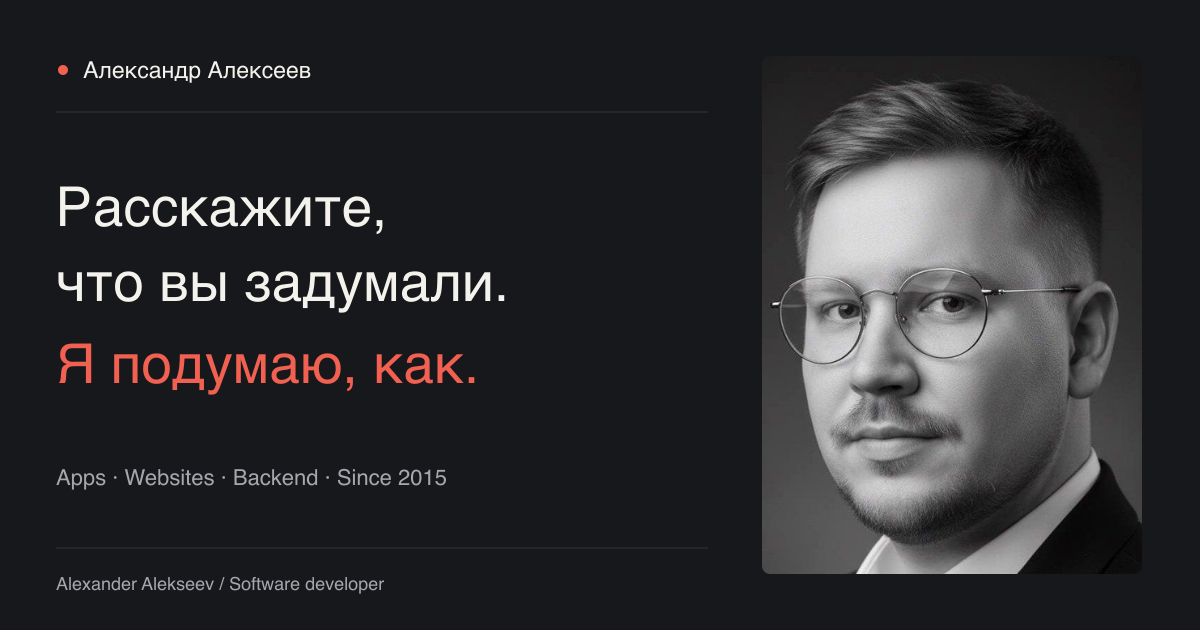
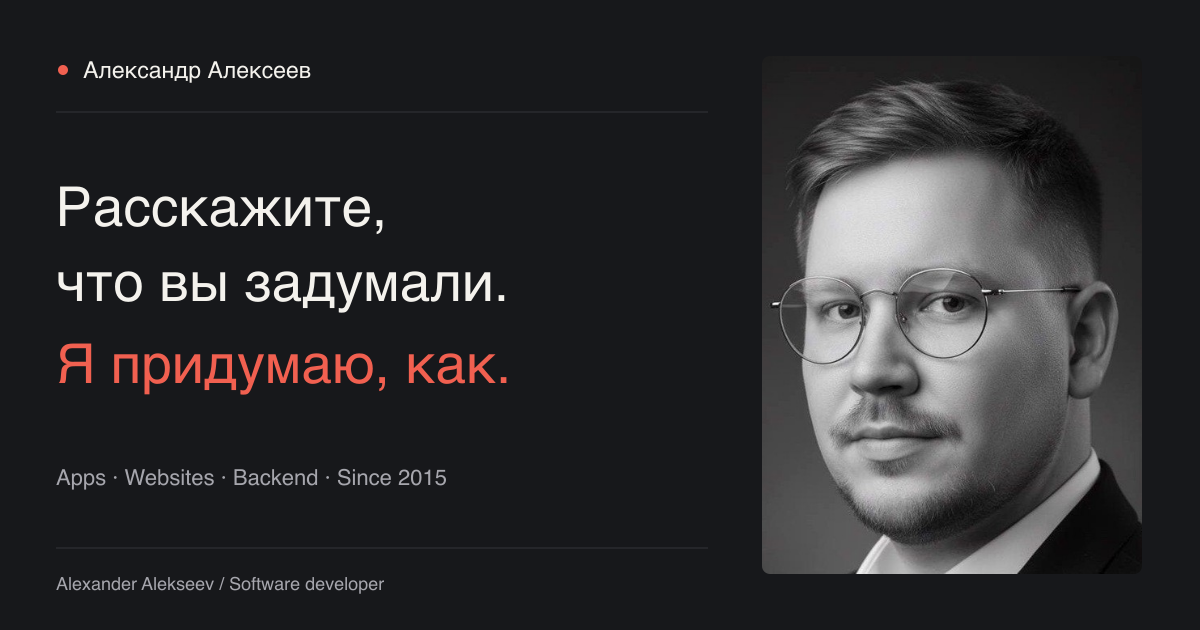
Add owner-confirmed project contributions in Russian and English

Changed region(s): [[0.1233, 0.5429, 0.4317, 0.6333]]

diff --git a/src/data/projects.ts b/src/data/projects.ts
@@ -13,6 +13,7 @@ export type Project = {
   kind: string;
   subtitle: string;
   description: string;
+  contribution: string;
   stack: string[];
   color: string;
   mark: string;
@@ -29,21 +30,23 @@ export const projects: Project[] = [
     slug: 'amelia', name: 'Amelia', category: 'Приложения', kind: 'Мобильный цветочный магазин',
     subtitle: 'Магазин в телефоне. Управление — в браузере.',
     description: 'Цветочный магазин в телефоне: букеты, категории и корзина. За приложением — API и инструменты управления магазином.',
-    stack: ['Flutter', 'TypeScript', 'Express', 'Prisma', 'Vue'],
+    contribution: 'Восстановил приложение, заброшенное на несколько лет, и запустил его на iOS и Android. Затем развивал функциональность и занимался публикацией в App Store и Google Play.',
+    stack: ['Flutter', 'Dart', 'iOS', 'Android'],
     color: 'rose', mark: 'a.', nodes: ['Приложение', 'API магазина', 'Админка'],
     context: 'Помочь покупателю выбрать букет в приложении, а сотрудникам — работать с каталогом и заказами через административную панель. Мобильную и внутреннюю части связывает серверный API.',
     screenshots: [{ src: 'projects/amelia/01-catalog.webp', width: 562, height: 1280, alt: { ru: 'Amelia: каталог букетов с ценами и категориями', en: 'Amelia: bouquet catalogue with prices and categories' }, caption: { ru: 'Мобильное приложение — каталог букетов', en: 'Mobile app — bouquet catalogue' } }],
     system: [
-      { title: 'Мобильный клиент', text: 'Flutter-приложение — пользовательская часть магазина для мобильных устройств.' },
-      { title: 'Серверная часть', text: 'API на Express и TypeScript. Prisma связывает серверную модель с базой данных.' },
-      { title: 'Управление магазином', text: 'Отдельное веб-приложение на Vue для административных сценариев.' },
+      { title: 'Восстановление проекта', text: 'Разобрал зависимости после незавершённого рефакторинга, заменил несовместимые библиотеки и исправил типизацию.' },
+      { title: 'iOS и Android', text: 'Восстановил сборку и запуск Flutter-приложения на обеих платформах.' },
+      { title: 'Развитие и публикации', text: 'Добавлял новые функции и сопровождал публикации приложения в App Store и Google Play.' },
     ],
   },
   {
     slug: 'vratarnitsa', name: 'Вратарница', category: 'Приложения', kind: 'Сайт и мобильный сервис прихода',
     subtitle: 'Сайт, приложение и управление в одной системе.',
     description: 'Цифровой сервис прихода: информация о храме, молитвослов, подача записок и пожертвования. Сайт и мобильный интерфейс связаны с общей системой.',
-    stack: ['Nuxt', 'Vue', 'Node.js', 'TypeScript', 'MySQL'],
+    contribution: 'Самостоятельно разработал сайт, административную панель, серверную часть и мобильное приложение. Опубликовал приложение в App Store и Google Play, подключил онлайн-оплату и подписки на пожертвования.',
+    stack: ['Nuxt', 'Vue', 'Flutter', 'Capacitor', 'Node.js', 'TypeScript', 'MySQL'],
     color: 'sand', mark: 'В', nodes: ['Сайт и клиент', 'Серверный API', 'Управление'],
     context: 'Сделать информацию и сервисы прихода доступными с компьютера и телефона. Посетитель может познакомиться с храмом и перейти к нужному действию; сервер и административная панель связывают интерфейсы с внутренней работой продукта.',
     screenshots: [
@@ -51,44 +54,47 @@ export const projects: Project[] = [
       { src: 'projects/vratarnitsa/02-mobile.webp', width: 358, height: 775, alt: { ru: 'Вратарница: мобильная версия сайта с навигацией', en: 'Vratarnitsa: mobile layout and navigation' }, caption: { ru: 'Мобильная версия — те же сервисы на узком экране', en: 'Mobile layout — the same services on a smaller screen' } },
     ],
     system: [
-      { title: 'Веб-интерфейс', text: 'Nuxt и Vue используются для пользовательской части продукта.' },
-      { title: 'Мобильное направление', text: 'В проекте есть мобильные клиенты на Flutter и Capacitor — разные этапы развития продукта.' },
-      { title: 'Общий сервер', text: 'Node.js, Express и TypeScript; MySQL и Sequelize для работы с данными. Административная панель работает с API.' },
+      { title: 'Полный цикл разработки', text: 'Без участия других разработчиков создал сайт, административную панель, серверный API и мобильное приложение.' },
+      { title: 'Мобильный релиз', text: 'Довёл приложение до публикации в App Store и Google Play. В проекте использовались Flutter и Capacitor на разных этапах развития.' },
+      { title: 'Платежи и подписки', text: 'Интегрировал онлайн-оплату и систему подписок на пожертвования.' },
     ],
   },
   {
     slug: 'save', name: 'Сэйв', category: 'Приложения', kind: 'Сервис охранного предприятия',
     subtitle: 'Связь клиента с сервисом — в приложении.',
     description: 'Приложение охранного сервиса: доступ по PIN-коду, объекты, события и связь с компанией. Для сотрудников — административная панель.',
-    stack: ['Flutter', 'PHP', 'Node.js', 'Socket.IO', 'Nuxt'],
+    contribution: 'Спроектировал дизайн и разработал мобильное приложение на Flutter. Спроектировал серверную чат-систему со службой поддержки и интегрировал её в приложение.',
+    stack: ['Flutter', 'Dart', 'Node.js', 'TypeScript', 'Socket.IO'],
     color: 'blue', mark: 'S', nodes: ['Клиент', 'API и чат', 'Оператор'],
     screenshots: [{ src: 'projects/save/01-sign-in.webp', width: 562, height: 1280, alt: { ru: 'Сэйв.info: экран входа по PIN-коду', en: 'Save.info: PIN sign-in screen' }, caption: { ru: 'Мобильное приложение — вход по PIN-коду', en: 'Mobile app — PIN sign-in' } }],
     context: 'Приложение связывает клиента с охранным сервисом. За мобильным интерфейсом стоят серверные сценарии, работа с объектами и инструменты для сотрудников.',
     system: [
-      { title: 'Приложение клиента', text: 'Flutter-клиент с уведомлениями и интеграцией с серверной частью.' },
-      { title: 'Серверное развитие', text: 'В системе сочетаются PHP API и отдельный сервис чата на Node.js и TypeScript.' },
-      { title: 'Инструменты сотрудников', text: 'Веб-панель на Nuxt и обмен сообщениями через Socket.IO.' },
+      { title: 'Дизайн приложения', text: 'Самостоятельно спроектировал визуальную часть мобильного приложения.' },
+      { title: 'Разработка на Flutter', text: 'Реализовал мобильный клиент на Flutter и связал его с серверной частью.' },
+      { title: 'Чат поддержки', text: 'Спроектировал серверную чат-систему на Node.js и TypeScript с обменом сообщениями через Socket.IO и внедрил её в приложение.' },
     ],
   },
   {
     slug: 'godendo', name: 'ГоденДо', category: 'Приложения', kind: 'Каталог скидок поблизости',
     subtitle: 'Предложения магазинов — в одном приложении.',
     description: 'Мобильный каталог товаров со скидками: категории, поиск, цены и расстояние до магазина. Рядом — избранное и список покупок.',
-    stack: ['Flutter', 'Dart', 'Nuxt', 'Vue'],
+    contribution: 'Спроектировал дизайн, разработал мобильное приложение на Flutter и интегрировал серверную часть.',
+    stack: ['Flutter', 'Dart'],
     color: 'mint', mark: 'Г', nodes: ['Предложения', 'Магазины', 'Покупатель'],
     context: 'Помочь человеку увидеть предложения магазинов поблизости и выбрать, куда пойти за покупками. В карточках видны товар, скидка, цена, магазин и расстояние; категории и поиск помогают ориентироваться в каталоге.',
     screenshots: [{ src: 'projects/godendo/01-discounts.webp', width: 540, height: 1204, alt: { ru: 'ГоденДо: товары со скидками, цены и расстояния до магазинов', en: 'GodenDo: discounted products, prices, and distances to stores' }, caption: { ru: 'Мобильное приложение — предложения магазинов', en: 'Mobile app — offers from nearby stores' } }],
     system: [
-      { title: 'Каталог на телефоне', text: 'Flutter-приложение с товарами, магазинами и категориями. На первом экране — предложения со скидками.' },
-      { title: 'Выбор и планирование', text: 'Карточки показывают цену и магазин. В исходниках предусмотрены избранное, список покупок и работа с геолокацией.' },
-      { title: 'Административная часть', text: 'Веб-панель на Nuxt и Vue для работы с каталогом, товарами и магазинами.' },
+      { title: 'Дизайн', text: 'Спроектировал интерфейс мобильного каталога товаров и предложений магазинов.' },
+      { title: 'Мобильное приложение', text: 'Реализовал дизайн и пользовательские сценарии на Flutter.' },
+      { title: 'Интеграция', text: 'Подключил мобильное приложение к серверной части проекта.' },
     ],
   },
   {
     slug: 'ice-and-flame', name: 'Лёд и пламя', category: 'Веб-сайты', kind: 'Сайт настольной игры',
     subtitle: 'Показать игру ещё до первой партии.',
-    description: 'Презентационный сайт «Градус судьбы»: механика игры, фотографии, форматы участия и заявка.',
-    stack: ['Astro', 'TypeScript', 'Tailwind CSS', 'PHP'],
+    description: 'Лендинг обучающей настольной игры «Градус судьбы»: механика, фотографии и форматы участия.',
+    contribution: 'Полностью разработал лендинг для презентации обучающей настольной игры: визуальную часть, вёрстку и адаптацию для компьютеров и телефонов.',
+    stack: ['Astro', 'TypeScript', 'Tailwind CSS'],
     color: 'ember', mark: '↟', nodes: ['Знакомство', 'Формат игры', 'Заявка'],
     screenshots: [{
       src: 'projects/ice-and-flame/01-home.webp', width: 1440, height: 1050,
@@ -99,17 +105,18 @@ export const projects: Project[] = [
       alt: { ru: 'Лёд и пламя: мобильный первый экран сайта игры', en: 'Ice and Flame: mobile home page' },
       caption: { ru: 'Главная страница — мобильная версия', en: 'Home page — mobile layout' },
     }],
-    context: 'Сайт знакомит с командной игрой «Градус судьбы: Лёд и Пламя». Посетитель видит механику, роли и живые фотографии, выбирает подходящий формат и может оставить заявку.',
+    context: 'Познакомить посетителя с обучающей настольной игрой, её механикой и форматами участия через небольшой презентационный сайт.',
     system: [
       { title: 'Визуальный рассказ', text: 'Лёд и огонь задают композицию. Механика, роли и галерея постепенно раскрывают продукт.' },
       { title: 'Статическая сборка', text: 'Astro формирует готовые страницы. Типизированные данные и компоненты помогают поддерживать содержимое сайта.' },
-      { title: 'Обратная связь', text: 'Форма заявки связана с PHP-обработчиком. Мобильная композиция адаптирована под узкий экран.' },
+      { title: 'Адаптивная вёрстка', text: 'Разработал отображение для компьютеров и телефонов. Лендинг работает без серверной части.' },
     ],
   },
   {
     slug: 'alean', name: 'Alean', category: 'Веб-сайты', kind: 'Курортная недвижимость',
     subtitle: 'Большой курортный проект — в понятной истории.',
     description: 'Сайт Alean Resort Montvert: комплекс, инфраструктура, галерея и обратная связь.',
+    contribution: 'Разработал визуальную и серверную части сайта, формы обратной связи и анимации.',
     stack: ['Nuxt', 'Vue', 'Pinia', 'PHP'],
     color: 'mint', mark: 'A', nodes: ['Комплекс', 'Инфраструктура', 'Обратная связь'],
     screenshots: [
@@ -127,6 +134,7 @@ export const projects: Project[] = [
     slug: 'united-mission', name: 'UnitedMission', category: 'Веб-сайты', kind: 'Консультационные услуги',
     subtitle: 'От знакомства с подходом — к обращению.',
     description: 'Англоязычный сайт с направлениями работы, страницами услуг и формами обращений.',
+    contribution: 'Разработал визуальную и серверную части сайта, а также административную панель для работы с обращениями.',
     stack: ['Nuxt', 'TypeScript', 'Node.js', 'MySQL'],
     color: 'violet', mark: 'UM', nodes: ['Услуги', 'Формы', 'Обработка обращений'],
     screenshots: [
@@ -142,66 +150,72 @@ export const projects: Project[] = [
   },
 ];
 
-type ProjectText = Pick<Project, 'name' | 'kind' | 'description' | 'context' | 'nodes' | 'system'>;
+type ProjectText = Pick<Project, 'name' | 'kind' | 'description' | 'contribution' | 'context' | 'nodes' | 'system'>;
 export const projectEnglish: Record<string, ProjectText> = {
   godendo: {
     name: 'GodenDo', kind: 'Local deals catalogue',
     description: 'A mobile catalogue of discounted products, with search, categories, prices, and store distances, plus favourites and a shopping list.',
+    contribution: 'Designed the interface, built the Flutter mobile app, and integrated it with the project’s backend.',
     context: 'Help people discover offers from nearby stores and decide where to shop. Product cards show the discount, price, store, and distance, while search and categories make the catalogue easier to explore.',
     nodes: ['Offers', 'Stores', 'Shopper'],
     system: [
-      { title: 'Mobile catalogue', text: 'A Flutter app with products, stores, and categories. The home screen highlights discounted offers.' },
-      { title: 'Choosing and planning', text: 'Cards show prices and stores. The codebase also includes favourites, a shopping list, and geolocation support.' },
-      { title: 'Administration', text: 'A Nuxt and Vue dashboard for working with the catalogue, products, and stores.' },
+      { title: 'Interface design', text: 'Designed the mobile catalogue interface for products and store offers.' },
+      { title: 'Mobile development', text: 'Implemented the design and user workflows in Flutter.' },
+      { title: 'Integration', text: 'Connected the mobile app to the project’s backend.' },
     ],
   },
   amelia: {
     name: 'Amelia', kind: 'Mobile flower shop',
     description: 'A flower shop on your phone: bouquets, categories, and a basket, backed by an API and store management tools.',
+    contribution: 'Revived an app that had been abandoned for several years and got it running on iOS and Android. Continued adding features and handling releases on the App Store and Google Play.',
     context: 'Help customers choose a bouquet in the app while staff manage products and orders in a separate dashboard. The backend connects the mobile storefront with the store’s internal tools.',
     nodes: ['Shopping app', 'Store API', 'Dashboard'],
     system: [
-      { title: 'Customer app', text: 'A Flutter application gives customers a mobile interface to the store.' },
-      { title: 'Backend', text: 'An Express API written in TypeScript, with Prisma connecting the data model to the database.' },
-      { title: 'Store management', text: 'A separate Vue web application supports administrative workflows.' },
+      { title: 'Project recovery', text: 'Reviewed dependencies left by an unfinished refactor, replaced incompatible libraries, and fixed typing issues.' },
+      { title: 'iOS and Android', text: 'Restored the Flutter app’s builds and launch on both platforms.' },
+      { title: 'Development and releases', text: 'Added features and handled releases on the App Store and Google Play.' },
     ],
   },
   vratarnitsa: {
     name: 'Vratarnitsa', kind: 'Parish website & mobile services',
     description: 'Parish information, a prayer book, prayer requests, and donations, brought together in web and mobile interfaces.',
+    contribution: 'Independently built the website, administration dashboard, backend, and mobile app. Published the app on the App Store and Google Play, and integrated online payments and recurring donations.',
     context: 'Make parish information and services accessible on desktop and mobile. Visitors can learn about the church and access the services they need, while the backend and administration dashboard support the product’s day-to-day operation.',
     nodes: ['Web & mobile', 'Backend API', 'Management'],
     system: [
-      { title: 'Web interface', text: 'Nuxt and Vue power the customer-facing web experience.' },
-      { title: 'Mobile development', text: 'The project includes Flutter and Capacitor clients from different stages of its development.' },
-      { title: 'Shared backend', text: 'Node.js, Express, and TypeScript, with MySQL and Sequelize for data storage. The administration dashboard connects to the API.' },
+      { title: 'End-to-end development', text: 'Built the website, administration dashboard, backend API, and mobile app without other developers.' },
+      { title: 'Mobile release', text: 'Took the app through publication on the App Store and Google Play. Flutter and Capacitor were used at different stages of the project.' },
+      { title: 'Payments and subscriptions', text: 'Integrated online payments and recurring donation subscriptions.' },
     ],
   },
   save: {
     name: 'Save', kind: 'Security service software',
     description: 'A security service app with PIN access, protected sites, events, and messaging, supported by an administration dashboard.',
+    contribution: 'Designed and built the Flutter mobile app. Designed the server-side support chat system and integrated it into the app.',
     context: 'The application connects customers with a security service. Behind the mobile interface are server-side workflows, protected-site records, and staff tools.',
     nodes: ['Customer', 'API & chat', 'Operator'],
     system: [
-      { title: 'Customer application', text: 'A Flutter client with notifications and backend integration.' },
-      { title: 'Backend evolution', text: 'The system combines a PHP API with a separate chat service built with Node.js and TypeScript.' },
-      { title: 'Staff tools', text: 'A Nuxt dashboard and real-time messaging through Socket.IO.' },
+      { title: 'App design', text: 'Personally designed the mobile application’s interface.' },
+      { title: 'Flutter development', text: 'Built the mobile client in Flutter and connected it to the backend.' },
+      { title: 'Support chat', text: 'Designed the Node.js and TypeScript support chat system using Socket.IO and integrated it into the app.' },
     ],
   },
   'ice-and-flame': {
     name: 'Ice and Flame', kind: 'Board game website',
-    description: 'A website introducing the game: how it works, photos, participation formats, and an enquiry form.',
-    context: 'The website introduces the team-based board game Ice and Flame. Visitors discover its mechanics and roles, see photographs of the game in use, explore the available formats, and make an enquiry.',
+    description: 'A landing page introducing an educational board game, its mechanics, photographs, and participation formats.',
+    contribution: 'Built the entire landing page for the educational board game, including the visual presentation and responsive desktop and mobile layouts.',
+    context: 'Introduce an educational board game, its mechanics, and participation formats through a compact presentation website.',
     nodes: ['Introduction', 'Game formats', 'Enquiry'],
     system: [
       { title: 'A visual story', text: 'Ice and fire shape the visual direction. Mechanics, roles, and a photo gallery gradually introduce the product.' },
       { title: 'Static website', text: 'Astro generates the pages, while typed data and reusable components make the content easier to maintain.' },
-      { title: 'Enquiries', text: 'The form connects to a PHP handler. The layout adapts to mobile screens.' },
+      { title: 'Responsive layout', text: 'Built desktop and mobile layouts. The landing page runs without a backend.' },
     ],
   },
   alean: {
     name: 'Alean', kind: 'Resort property website',
     description: 'A website for Alean Resort Montvert, presenting the development, its amenities, and ways to get in touch.',
+    contribution: 'Developed the website’s frontend and backend, enquiry forms, and animations.',
     context: 'The website presents Alean Resort Montvert. Sections about the development and its amenities help visitors explore the property before making an enquiry.',
     nodes: ['Development', 'Amenities', 'Enquiry'],
     system: [
@@ -213,6 +227,7 @@ export const projectEnglish: Record<string, ProjectText> = {
   'united-mission': {
     name: 'UnitedMission', kind: 'Consultancy website',
     description: 'An English-language website with service pages and enquiry forms.',
+    contribution: 'Developed the website’s frontend, backend, and an administration dashboard for managing enquiries.',
     context: 'The website presents consultancy services for individuals and organisations. Visitors explore the approach and service areas, then choose how to get in touch.',
     nodes: ['Services', 'Forms', 'Enquiry handling'],
     system: [

diff --git a/src/styles/global.css b/src/styles/global.css
@@ -90,9 +90,9 @@
   .project-meta .mono { font-size: 9px; }
   .project-card h3 { font-size: 42px; margin-top: 19px; letter-spacing: -.045em; }
   .project-description { font-size: 15px; line-height: 1.9; margin-top: 21px; max-width: 470px; }
-  .project-purpose { margin-top: 24px; }
-  .project-purpose .eyebrow { color: var(--accent); font-size: 9px; margin-bottom: 8px; }
-  .project-purpose > p:last-child { color: var(--muted); font-size: 12px; line-height: 1.9; }
+  .project-contribution { margin-top: 24px; }
+  .project-contribution .eyebrow { color: var(--accent); font-size: 9px; margin-bottom: 8px; }
+  .project-contribution > p:last-child { color: var(--muted); font-size: 12px; line-height: 1.9; }
   .project-details { margin-top: 26px; border-top: 1px solid var(--line); }
   .project-details summary { cursor: pointer; list-style: none; padding-block: 14px 0; font-size: 11px; display: flex; align-items: center; justify-content: space-between; gap: 15px; color: var(--muted); }
   .project-details summary:hover { color: var(--ink); }
@@ -202,10 +202,10 @@
 
 @layer responsive {
   @media (max-width: 1100px) {
-    .shell { width: calc(100% - 64px); }.hero-grid { gap: 38px; }.hero h1 { font-size: 47px; }.hero-lead { font-size: 13px; }.hero-buttons { gap: 16px; }.hero-buttons .text-link { font-size: 11px; }.button { gap: 24px; padding-inline: 18px; }.portrait-kicker { top: 17px; left: 18px; font-size: 8px; }.hero-portrait figcaption { bottom: 20px; left: 20px; }.hero-portrait figcaption strong { font-size: 20px; }.portrait-year { right: 16px; bottom: 24px; }.project-card { gap: 36px; grid-template-columns: .9fr 1.2fr; }.project-card h3 { font-size: 35px; }.project-description { font-size: 13px; }.project-purpose > p:last-child { font-size: 11px; }.device-phone { border-radius: 17px; border-width: 4px; }.about-grid,.stack-section { gap: 60px; }.contact-bottom > .mono { display: none; }.work-label { display: none; }
+    .shell { width: calc(100% - 64px); }.hero-grid { gap: 38px; }.hero h1 { font-size: 47px; }.hero-lead { font-size: 13px; }.hero-buttons { gap: 16px; }.hero-buttons .text-link { font-size: 11px; }.button { gap: 24px; padding-inline: 18px; }.portrait-kicker { top: 17px; left: 18px; font-size: 8px; }.hero-portrait figcaption { bottom: 20px; left: 20px; }.hero-portrait figcaption strong { font-size: 20px; }.portrait-year { right: 16px; bottom: 24px; }.project-card { gap: 36px; grid-template-columns: .9fr 1.2fr; }.project-card h3 { font-size: 35px; }.project-description { font-size: 13px; }.project-contribution > p:last-child { font-size: 11px; }.device-phone { border-radius: 17px; border-width: 4px; }.about-grid,.stack-section { gap: 60px; }.contact-bottom > .mono { display: none; }.work-label { display: none; }
   }
   @media (max-width: 760px) {
-    .shell { width: calc(100% - 40px); }.site-header { min-height: 84px; gap: 12px; }.brand { gap: 12px; }.brand-name { font-size: 10px; }.brand-symbol { font-size: 31px; }.site-header nav { gap: 16px; font-size: 11px; }.header-contact { display: none; }.hero { padding-top: 23px; }.hero-topline .eyebrow { font-size: 8px; }.hero-index { font-size: 8px; }.hero-grid { display: flex; flex-direction: column; align-items: start; padding-block: 27px 33px; gap: 30px; }.hero-portrait { order: -1; width: min(100%, 330px); aspect-ratio: 1.15; align-self: center; }.hero-portrait > img { object-position: center 38%; }.hero-portrait figcaption strong { font-size: 19px; }.hero-portrait figcaption > span { font-size: 10px; }.hero h1 { font-size: clamp(34px, 6.8vw, 47px); }.hero-lead { font-size: 13px; margin-top: 22px; max-width: 520px; }.hero-buttons { margin-top: 23px; }.hero-bottom { padding-block: 13px; }.hero-bottom > span { font-size: 8px; letter-spacing: .04em; }.work-section { padding-block: 55px; }.section-heading { display: block; }.section-number { font-size: 9px; margin-bottom: 16px; }h2 { font-size: 36px; }.section-intro { margin-top: 20px; max-width: 450px; font-size: 12px; }.work-toolbar { margin-block: 25px 3px; }.filter { font-size: 11px; gap: 10px; padding: 9px 12px; }.project-card { grid-template-columns: 1fr; gap: 25px; padding-block: 35px; }.project-information { display: contents; }.project-meta { order: 0; }.project-card h3 { order: 1; margin-top: -14px; font-size: 34px; }.project-description { order: 2; margin-top: -8px; font-size: 14px; max-width: 100%; }.project-media { order: 3; }.project-purpose { order: 4; margin-top: 0; }.project-purpose > p:last-child { font-size: 12px; }.project-details { order: 5; margin-top: -5px; }.project-details summary { font-size: 12px; }.device-composition { max-width: 600px; margin-inline: auto; width: 100%; }.device-phone { border-radius: 18px; }.browser-bar { font-size: 7px; padding: 7px 10px; }.device-corner { left: 16px; bottom: 10px; }.media-hint { font-size: 9px; }.media-footer { margin-top: 11px; }.work-footnote { font-size: 10px; }.about-section { padding-block: 52px; }.about-grid { grid-template-columns: 1fr; gap: 26px; }.about-intro > p:not(.eyebrow) { max-width: 520px; font-size: 12px; }.experience-stamp { margin-top: 22px; }.experience-stamp strong { font-size: 41px; }.approach-list { padding-top: 0; }.approach-list article { padding-block: 23px; gap: 14px; }.approach-list h3 { font-size: 18px; }.stack-section { grid-template-columns: 1fr; gap: 30px; padding-block: 55px; }.stack-title h2 { font-size: 33px; }.lab-section { padding-block: 10px 53px; }.lab-list { margin-top: 26px; }.lab-list article { grid-template-columns: 22px 1fr 18px; gap: 8px 15px; padding-block: 23px; }.lab-list h3 { font-size: 22px; }.lab-list article > div { grid-column: 2; }.lab-list h3 > span:not([lang]) { margin-top: 6px; }.lab-mark { grid-column: 3; grid-row: 1; }.lab-number { font-size: 9px; }.lab-footnote { font-size: 9px; }.contact-section { padding: 25px 24px 28px; margin-bottom: 30px; }.contact-top .eyebrow { font-size: 8px; }.contact-top > span { font-size: 25px; }.contact-section h2 { font-size: clamp(30px, 6vw, 43px); margin-top: 27px; }.contact-bottom { flex-wrap: wrap; gap: 18px; margin-top: 27px; }.contact-email { font-size: 11px; }.site-footer { flex-wrap: wrap; gap: 15px; padding-bottom: 28px; }.footer-note { display: none; }.lightbox { width: calc(100vw - 20px); height: calc(100dvh - 20px); padding: 12px; }.lightbox-stage { gap: 5px; }.lightbox-stage button { width: 30px; }
+    .shell { width: calc(100% - 40px); }.site-header { min-height: 84px; gap: 12px; }.brand { gap: 12px; }.brand-name { font-size: 10px; }.brand-symbol { font-size: 31px; }.site-header nav { gap: 16px; font-size: 11px; }.header-contact { display: none; }.hero { padding-top: 23px; }.hero-topline .eyebrow { font-size: 8px; }.hero-index { font-size: 8px; }.hero-grid { display: flex; flex-direction: column; align-items: start; padding-block: 27px 33px; gap: 30px; }.hero-portrait { order: -1; width: min(100%, 330px); aspect-ratio: 1.15; align-self: center; }.hero-portrait > img { object-position: center 38%; }.hero-portrait figcaption strong { font-size: 19px; }.hero-portrait figcaption > span { font-size: 10px; }.hero h1 { font-size: clamp(34px, 6.8vw, 47px); }.hero-lead { font-size: 13px; margin-top: 22px; max-width: 520px; }.hero-buttons { margin-top: 23px; }.hero-bottom { padding-block: 13px; }.hero-bottom > span { font-size: 8px; letter-spacing: .04em; }.work-section { padding-block: 55px; }.section-heading { display: block; }.section-number { font-size: 9px; margin-bottom: 16px; }h2 { font-size: 36px; }.section-intro { margin-top: 20px; max-width: 450px; font-size: 12px; }.work-toolbar { margin-block: 25px 3px; }.filter { font-size: 11px; gap: 10px; padding: 9px 12px; }.project-card { grid-template-columns: 1fr; gap: 25px; padding-block: 35px; }.project-information { display: contents; }.project-meta { order: 0; }.project-card h3 { order: 1; margin-top: -14px; font-size: 34px; }.project-description { order: 2; margin-top: -8px; font-size: 14px; max-width: 100%; }.project-media { order: 3; }.project-contribution { order: 4; margin-top: 0; }.project-contribution > p:last-child { font-size: 12px; }.project-details { order: 5; margin-top: -5px; }.project-details summary { font-size: 12px; }.device-composition { max-width: 600px; margin-inline: auto; width: 100%; }.device-phone { border-radius: 18px; }.browser-bar { font-size: 7px; padding: 7px 10px; }.device-corner { left: 16px; bottom: 10px; }.media-hint { font-size: 9px; }.media-footer { margin-top: 11px; }.work-footnote { font-size: 10px; }.about-section { padding-block: 52px; }.about-grid { grid-template-columns: 1fr; gap: 26px; }.about-intro > p:not(.eyebrow) { max-width: 520px; font-size: 12px; }.experience-stamp { margin-top: 22px; }.experience-stamp strong { font-size: 41px; }.approach-list { padding-top: 0; }.approach-list article { padding-block: 23px; gap: 14px; }.approach-list h3 { font-size: 18px; }.stack-section { grid-template-columns: 1fr; gap: 30px; padding-block: 55px; }.stack-title h2 { font-size: 33px; }.lab-section { padding-block: 10px 53px; }.lab-list { margin-top: 26px; }.lab-list article { grid-template-columns: 22px 1fr 18px; gap: 8px 15px; padding-block: 23px; }.lab-list h3 { font-size: 22px; }.lab-list article > div { grid-column: 2; }.lab-list h3 > span:not([lang]) { margin-top: 6px; }.lab-mark { grid-column: 3; grid-row: 1; }.lab-number { font-size: 9px; }.lab-footnote { font-size: 9px; }.contact-section { padding: 25px 24px 28px; margin-bottom: 30px; }.contact-top .eyebrow { font-size: 8px; }.contact-top > span { font-size: 25px; }.contact-section h2 { font-size: clamp(30px, 6vw, 43px); margin-top: 27px; }.contact-bottom { flex-wrap: wrap; gap: 18px; margin-top: 27px; }.contact-email { font-size: 11px; }.site-footer { flex-wrap: wrap; gap: 15px; padding-bottom: 28px; }.footer-note { display: none; }.lightbox { width: calc(100vw - 20px); height: calc(100dvh - 20px); padding: 12px; }.lightbox-stage { gap: 5px; }.lightbox-stage button { width: 30px; }
   }
   @media (max-width: 520px) {
     .site-header nav a:last-child { display: none; }.brand-name { display: none; }.hero-index { display: none; }.hero-buttons { gap: 17px; }.hero-buttons .text-link { font-size: 10px; }.hero-buttons .button { gap: 19px; padding-inline: 15px; }.device-composition { aspect-ratio: 1.23; }.is-app { aspect-ratio: 1.35; }.device-desktop { top: 12%; width: 88%; }.device-phone { right: 3%; height: 77%; bottom: 5%; border-width: 4px; border-radius: 15px; }.is-app .device-phone { height: 87%; right: 25%; bottom: 6%; }.media-footer { gap: 8px; }.device-controls button { padding: 7px 9px; font-size: 9px; }.media-hint { font-size: 8px; }.browser-bar { font-size: 6px; padding: 7px 9px; }.portrait-kicker { font-size: 8px; }.hero-portrait figcaption { bottom: 18px; left: 18px; }.button { min-height: 50px; font-size: 12px; }

diff --git a/src/data/i18n.ts b/src/data/i18n.ts
@@ -12,7 +12,7 @@ export const copy = {
   location: ['Иркутск · Работаю удалённо', 'Irkutsk · Working remotely'],
   top: ['Наверх ↑', 'Back to top ↑'],
   edition: ['ПОРТФОЛИО / 2026', 'PORTFOLIO / 2026'],
-  hero: ['Расскажите,<br />что вы задумали.<br /><span class="hero-accent">Я подумаю, как.</span>', 'Tell me what<br />you have in mind.<br /><span class="hero-accent">I’ll work out how.</span>'],
+  hero: ['Расскажите,<br />что вы задумали.<br /><span class="hero-accent">Я придумаю, как.</span>', 'Tell me what<br />you have in mind.<br /><span class="hero-accent">I’ll find a way.</span>'],
   lead: ['Я Александр. Пишу код с 2015 года: делаю приложения, сайты и то, что связывает их между собой. Могу разобраться в ещё сырой идее, довести до запуска и остаться рядом, когда понадобятся изменения.', 'I’m Alexander. I’ve been building software since 2015: apps, websites, and the systems that connect them. I can help make sense of an early idea, get it ready for launch, and keep working with you as it evolves.'],
   view: ['Смотреть проекты', 'Explore my work'],
   telegram: ['Написать в Telegram', 'Message me on Telegram'],
@@ -35,6 +35,7 @@ export const copy = {
   foreground: ['На переднем плане', 'Bring to front'],
   hello: ['ДАВАЙТЕ ЗНАКОМИТЬСЯ', 'NICE TO MEET YOU'],
   context: ['Задача продукта', 'The product’s purpose'],
+  contribution: ['Мой вклад', 'My contribution'],
   system: ['Из чего состоит', 'How it fits together'],
   gallery: ['Экраны продукта', 'Product screenshots'],
   enlarge: ['Увеличить снимок', 'Enlarge screenshot'],

diff --git a/README.md b/README.md
@@ -49,7 +49,7 @@ BASE_PATH=/portfolio/ npm run preview
 
 ## Содержимое и дизайн
 
-- `src/data/projects.ts` — коммерческие кейсы, английские описания, галереи и отдельно личные проекты.
+- `src/data/projects.ts` — коммерческие кейсы, подтверждённый владельцем личный вклад, английские описания, галереи и отдельно личные проекты.
 - `src/data/i18n.ts` — русские и английские тексты интерфейса и описание разработчика.
 - `src/components/T.astro` — переключаемые тексты из доверенных, редактируемых в репозитории данных. Не передавать в этот компонент внешнее содержимое: он поддерживает HTML-разметку.
 - `src/components/ProjectArt.astro` — композиции из реальных экранов. Для сайтов компьютерный и мобильный виды накладываются друг на друга, кнопки меняют передний план. Для приложений используется миниатюра телефона. Любой экран можно увеличить.
@@ -86,4 +86,4 @@ screenshots: [{
 
 ## Статус
 
-Это локальная версия портфолио с черновыми описаниями проектов на основе кода и предоставленных снимков. Публикация требует созданного владельцем GitHub-репозитория. Формулировки личного вклада и результаты проектов можно уточнить совместно с владельцем.
+Это локальная версия портфолио. Описания назначения проектов основаны на коде и предоставленных снимках; блоки «Мой вклад» составлены по рассказу владельца. Они видны сразу на обоих языках. Публикация требует созданного владельцем GitHub-репозитория. Метрики, отзывы и неподтверждённые результаты не добавлены.

diff --git a/AGENTS.md b/AGENTS.md
@@ -9,5 +9,6 @@
 - Support Russian and natural English on the same URL, including labels, descriptions, image alternatives and controls. Preserve the visitor's chosen language.
 - VPN platform, Crypto bot and Trade v2 are personal projects. Do not present them as commissioned commercial work or make profitability claims.
 - Add real screenshots only from permitted projects and use demonstration data. Label diagrams as diagrams. Do not invent client quotes, outcomes, metrics or personal contributions.
+- The owner confirmed the seven commercial contributions in conversation; preserve the visible bilingual `contribution` fields. Amelia is legacy app recovery, ongoing features and store releases; GodenDo is design, Flutter and backend integration. Do not imply original authorship of Amelia or backend development for GodenDo. Ice and Flame is a complete landing page without a backend.
 - Target GitHub Pages with a static Astro build. Preserve support for repository subpaths and user-site repositories.
 - Use Node.js 24 (`.nvmrc`), `npm ci`, and `npm run build`. Keep secrets out of static assets and client code.
